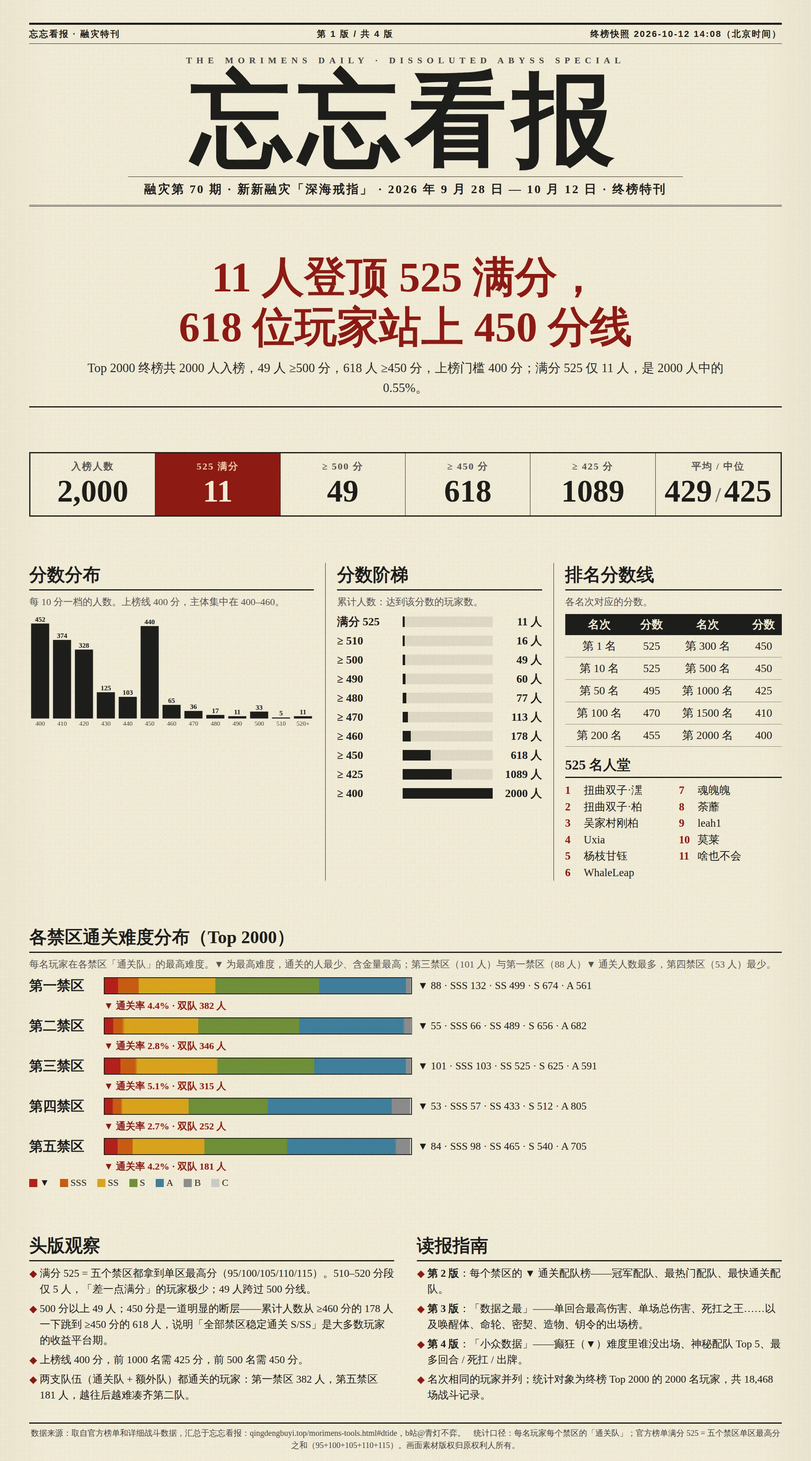
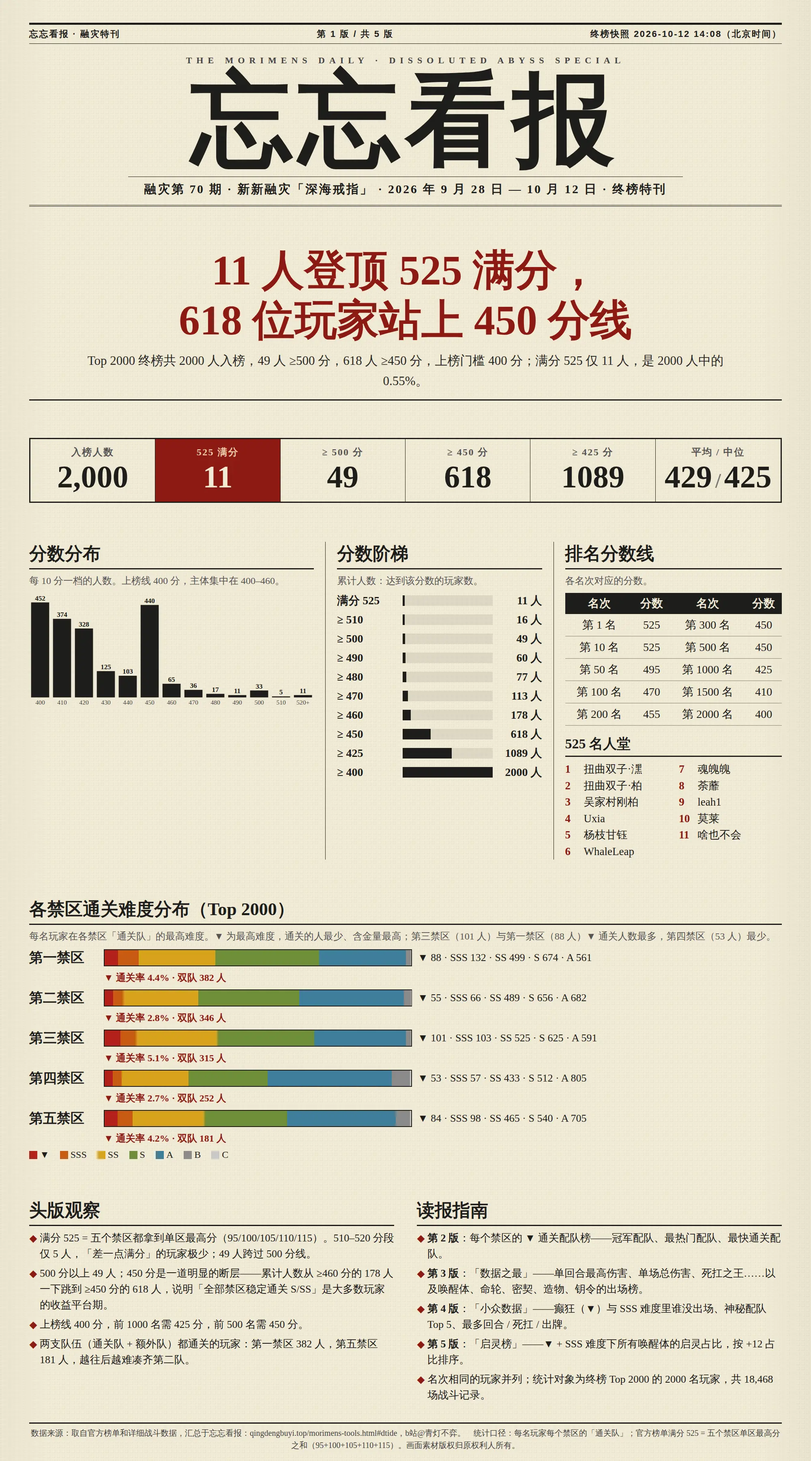
fix: Season 70 report counts extra-team battles; add page 5 (enlightenment share, sorted by +12) and its button
Claude-Session: https://claude.ai/code/session_01MCt2f4xRwpKngiPShFG9zo

diff --git a/morimens-tools.html b/morimens-tools.html
@@ -188,7 +188,7 @@
   <footer class="wrap footer"><div>© 2026 青灯不弈 · 忘忘看报</div><div>粉丝向免费工具；<a href="https://morimens.qookkagames.com/" target="_blank" rel="noopener noreferrer">《忘却前夜》</a>相关角色、图片与游戏素材版权归原权利方所有。</div><div class="licenseNote" style="flex-basis:100%;margin-top:6px;font-size:12px;line-height:1.6;opacity:.85">本站整理、统计与说明内容按 <a href="https://creativecommons.org/licenses/by-nc-sa/4.0/deed.zh-hans" target="_blank" rel="noopener noreferrer license">CC BY-NC-SA 4.0</a> 协议共享（署名-非商业性使用-相同方式共享）。数据来源：<a href="https://github.com/dansa/SKeyDB" target="_blank" rel="noopener noreferrer">SKeyDB</a>、<a href="https://github.com/Morimenz-kr/Morimens.Info.kr" target="_blank" rel="noopener noreferrer">Morimens.Info.kr</a>、<a href="https://github.com/BIAVGit/Morimens-Localizations" target="_blank" rel="noopener noreferrer">Morimens-Localizations</a>、<a href="https://www.kaiden.gg/morimens/" target="_blank" rel="noopener noreferrer">Kaiden.gg</a>、<a href="https://morimens.huijiwiki.com/" target="_blank" rel="noopener noreferrer">灰机维基</a>，均以其各自授权为准；游戏素材版权归原权利方所有。</div></footer>
 
       <script src="morimens-fortune.js?v=20260924.6"></script>
-      <script src="morimens-tools.js?v=20261012.3"></script>
+      <script src="morimens-tools.js?v=20261012.4"></script>
   <script src="waline-anonymous-avatars.js?v=20260920.5" defer></script>
   <script src="site-analytics.js" defer></script>
 </body>

diff --git a/morimens-dtide.js b/morimens-dtide.js
@@ -1189,7 +1189,7 @@ function sortUsageRows(a,b,groups,waves){const spec=$('dtideSort')?.value||'tota
   window.MorimensDtideCommunity={getContext:communityDzoneContext,mergeRecords:mergeCommunityDzoneRecords,validateCandidate:validateCommunityCandidate,getRecordState:communityCurrentRecordState};
 
   // report images (newspaper-style special issue) linked under the Season 70 leaderboard
-  const REPORTS={70:{title:['融灾第70期终榜特刊','Season 70 final report'],pages:[['第1版 · 总览','Page 1 · Overview'],['第2版 · 各禁区配队榜','Page 2 · Top teams by zone'],['第3版 · 数据之最与出场榜','Page 3 · Records & usage'],['第4版 · 小众数据','Page 4 · Niche data']],path:n=>`assets/morimens/reports/s70-page${n}.webp?v=20261012`}};
+  const REPORTS={70:{title:['融灾第70期终榜特刊','Season 70 final report'],pages:[['第1版 · 总览','Page 1 · Overview'],['第2版 · 各禁区配队榜','Page 2 · Top teams by zone'],['第3版 · 数据之最与出场榜','Page 3 · Records & usage'],['第4版 · 小众数据','Page 4 · Niche data'],['第5版 · 启灵榜','Page 5 · Enlightenment']],path:n=>`assets/morimens/reports/s70-page${n}.webp?v=20261012b`}};
   function renderReports(){
     const host=$('dtideReports');if(!host)return;
     const id=Number(activeSeasonEntry?.snapshotId?null:activeSeasonEntry?.seasonId),cfg=REPORTS[id];

diff --git a/morimens-tools.js b/morimens-tools.js
@@ -80,7 +80,7 @@ function setupMorimensReplayShell(){
 
 (async()=>{
   try{
-  const assetVersion="20261012.3";
+  const assetVersion="20261012.4";
   // fetch every module in parallel up front; the sequential imports below then only evaluate them
   for(const m of ["morimens-dtide-loader","morimens-dtide-battle","morimens-dtide-battle-ui","morimens-dtide-zones","morimens-tierlist","morimens-summon-calendar","morimens-birthday-calendar","morimens-dtide","morimens-replay-scoring","morimens-replay-timeline","morimens-data","morimens-skeydb","morimens-love-ranking","morimens-i18n","morimens-calculator-formulas","morimens-calculator-skeydb","morimens-calculator-stats","morimens-calculator-realms","morimens-calculator-combat","morimens-calculator-export","morimens-replay-score-enhancer","morimens-replay-export-v2","morimens-dtide-usage","morimens-dtide-team-ui","morimens-dtide-progression-fix","morimens-assist-list"]){const l=document.createElement("link");l.rel="modulepreload";l.href=`./${m}.js?v=${assetVersion}`;document.head.appendChild(l)}
     window.MorimensDtideRenderer="legacy";
